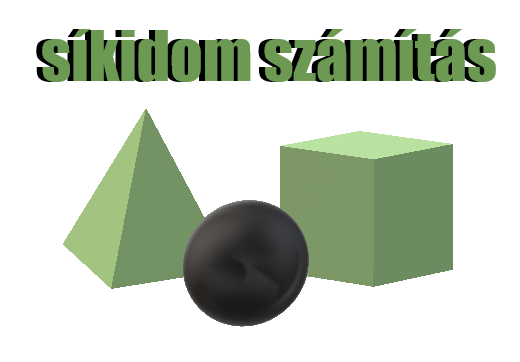
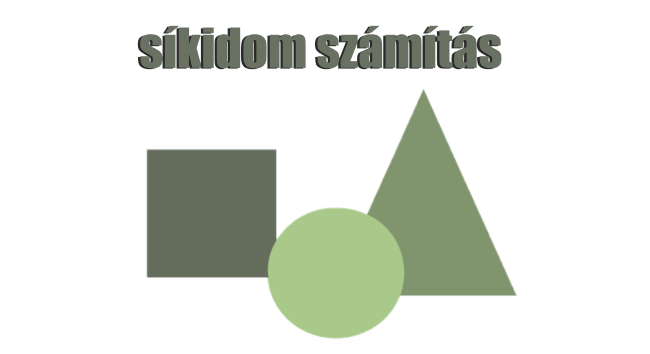
menükép beillesztése

diff --git a/fooldal.py b/fooldal.py
@@ -1,9 +1,17 @@
 
+
 from tkinter import *
 from tkinter.font import BOLD
 fooldal=Tk()
 gyoker="C:\\Users\\beretizsofia\\Desktop\\janiszamol\\"
- 
+
+#-------------importalas-------------
+
+
+
+
+
+#-------------------------------------
 menusor=Frame()
 menusor.pack(side=TOP, fill=X)
 
@@ -34,6 +42,7 @@ teglalap.add_command(label="Terület")
 teglalap.add_command(label="Kerület")
 menu4.config(menu=teglalap)
 
+
 menu5=Menubutton(menusor, text="Paralelogramma", bg = "#A8C989", fg='white', font=20)
 menu5.pack(side=LEFT)
 paralelogramma=Menu(menu5, bg = "#769955", fg='white', font=10)
@@ -47,6 +56,7 @@ rombusz=Menu(menu6, bg = "#769955", fg='white', font=10)
 rombusz.add_command(label="Terület")
 rombusz.add_command(label="Kerület")
 menu6.config(menu=rombusz)
+
 
 menu7=Menubutton(menusor, text="Trapéz", bg = "#A8C989", fg='white', font=20)
 menu7.pack(side=LEFT)
@@ -68,8 +78,8 @@ deltoid=Menu(menu9, bg = "#769955", fg='white', font=10)
 deltoid.add_command(label="Terület")
 deltoid.add_command(label="Kerület")
 menu9.config(menu=deltoid)
-
-
+imge = PhotoImage(file = "menukep.png")
+Label(fooldal, image = imge).pack(side = LEFT)
 
 
 
